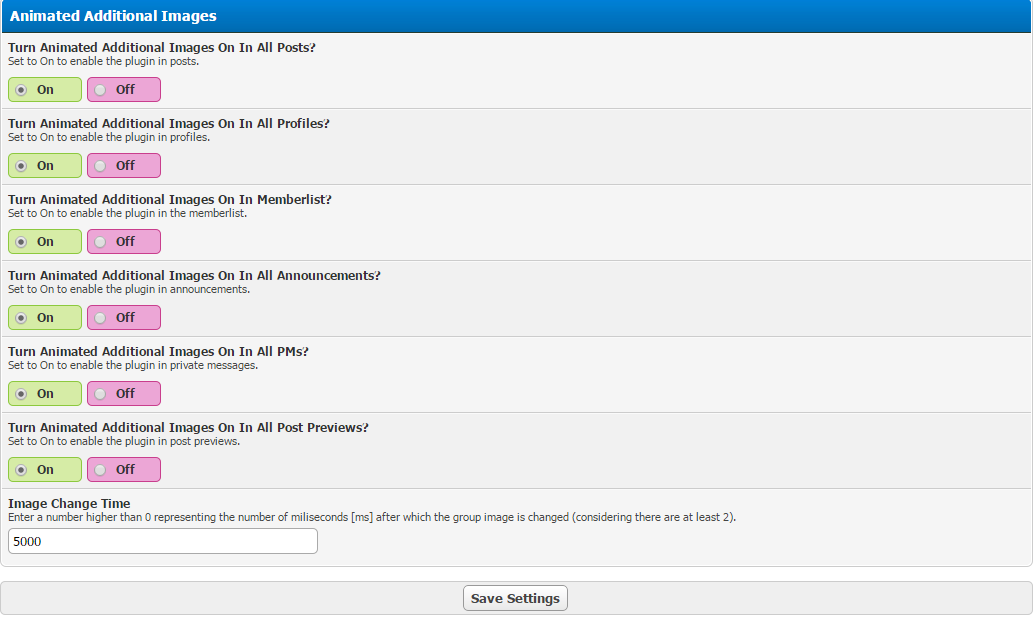
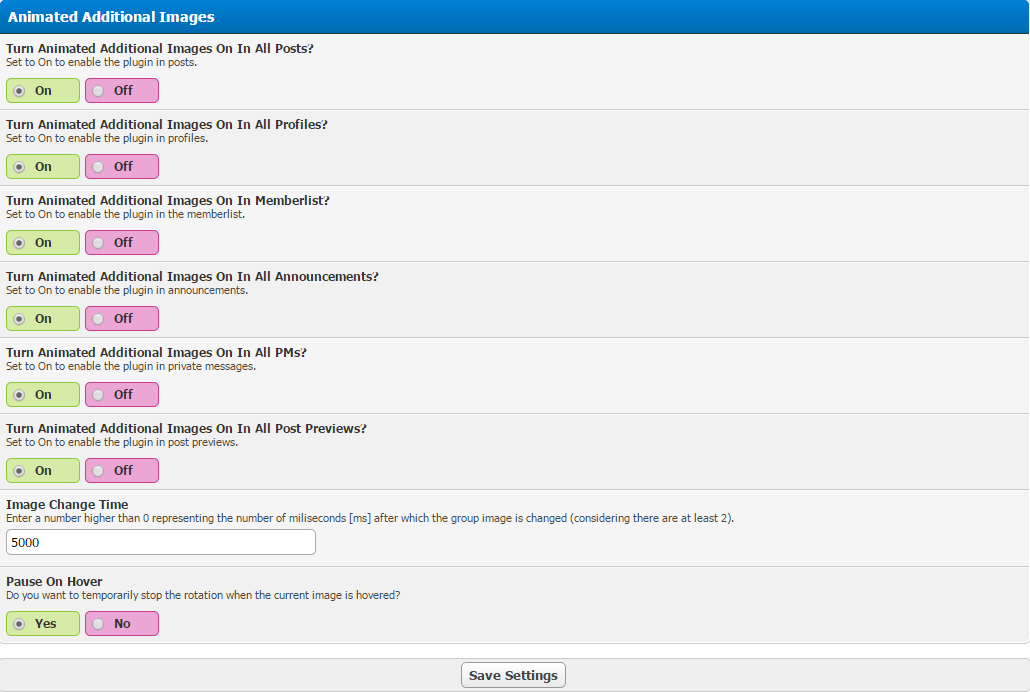
1.3
...

Changed region(s): [[0.0, 0.0, 1.0, 1.0]]

diff --git a/upload/inc/plugins/animated_additional_images.php b/upload/inc/plugins/animated_additional_images.php
@@ -3,11 +3,11 @@
 /*
 Name: Animated Additional Group Images
 Author: Destroy666
-Version: 1.2
+Version: 1.3
 Requirements: Plugin Library
 Info: Plugin for MyBB forum software, coded for versions 1.8.x (may also work in 1.6.x/1.4.x after some changes).
 It displays additional group images in postbit/memberlist/profile by using a "carousel" JS.
-3 new templates, 5 template edits, 7 new settings
+3 new templates, 5 template edits, 8 new settings
 Released under GNU GPL v3, 29 June 2007. Read the LICENSE.md file for more information.
 Support: official MyBB forum - http://community.mybb.com/mods.php?action=profile&uid=58253 (don't PM me, post on forums)
 Bug reports: my github - https://github.com/Destroy666x
@@ -59,7 +59,7 @@ function animated_additional_images_info()
 		'website'		=> 'https://github.com/Destroy666x',
 		'author'		=> 'Destroy666',
 		'authorsite'	=> 'https://github.com/Destroy666x',
-		'version'		=> 1.2,
+		'version'		=> 1.3,
 		'codename'		=> 'animated_additional_images',
 		'compatibility'	=> '18*'
     );
@@ -279,7 +279,7 @@ function animated_additional_images_global()
 		$yes = false;
 		$action = $mybb->get_input('action');
 		
-		if(THIS_SCRIPT == 'showthread.php' && $mybb->settings['animated_additional_images_posts'])
+		if(THIS_SCRIPT == 'showthread.php' || (THIS_SCRIPT == 'newreply.php' && $mybb->get_input('ajax', MyBB::INPUT_INT)) && $mybb->settings['animated_additional_images_posts'])
 		{
 			$plugins->add_hook('postbit', 'animated_additional_images_postbit1');
 			$yes = true;

diff --git a/upload/inc/languages/english/admin/animated_additional_images_acp.lang.php b/upload/inc/languages/english/admin/animated_additional_images_acp.lang.php
@@ -3,11 +3,11 @@
 /*
 Name: Animated Additional Group Images
 Author: Destroy666
-Version: 1.2
+Version: 1.3
 Requirements: Plugin Library
 Info: Plugin for MyBB forum software, coded for versions 1.8.x (may also work in 1.6.x/1.4.x after some changes).
 It displays additional group images in postbit/memberlist/profile by using a "carousel" JS.
-3 new templates, 5 template edits, 7 new settings
+3 new templates, 5 template edits, 8 new settings
 Released under GNU GPL v3, 29 June 2007. Read the LICENSE.md file for more information.
 Support: official MyBB forum - http://community.mybb.com/mods.php?action=profile&uid=58253 (don't PM me, post on forums)
 Bug reports: my github - https://github.com/Destroy666x

diff --git a/upload/inc/languages/polish/admin/animated_additional_images_acp.lang.php b/upload/inc/languages/polish/admin/animated_additional_images_acp.lang.php
@@ -3,11 +3,11 @@
 /*
 Nazwa: Animowane dodatkowe grupy
 Autor: Destroy666
-Wersja: 1.0
+Wersja: 1.3
 Wymagania: Plugin Library
 Informacje: Plugin dla skryptu MyBB, zakodowany dla wersji 1.8.x (może także działać w 1.6.x/1.4.x).
 Wyświetla obrazki dodatkowych grup w formie "karuzeli" JS.
-3 nowe szablony, 5 zmian w szablonach, 7 nowych ustawień
+3 nowe szablony, 5 zmian w szablonach, 8 nowych ustawień
 Licencja: GNU GPL v3, 29 June 2007. Więcej informacji w pliku LICENSE.md.
 Support: officjalne forum MyBB - http://community.mybb.com/mods.php?action=profile&uid=58253 (nie odpowiadam na PM, tylko na posty)
 Zgłaszanie błędów: mój github - https://github.com/Destroy666x

diff --git a/README.md b/README.md
@@ -5,14 +5,14 @@
 
 **Name**: Animated Additional Images  
 **Author**: Destroy666  
-**Version**: 1.2  
+**Version**: 1.3  
 
 **Info**:
 ---------
 
-Plugin for MyBB forum software, coded for versions 1.8.x (will probably also work in 1.6.x/1.4.x).  
+Plugin for MyBB forum software, coded for versions 1.8.x (may also work in 1.6.x/1.4.x after some changes).  
 It displays additional group images in postbit/memberlist/profile by using a "carousel" JS.  
-3 new templates, 5 template edits, 7 new settings  
+3 new templates, 5 template edits, 8 new settings  
 Released under GNU GPL v3, 29 June 2007. Read the LICENSE.md file for more information.  
 
 **Support/bug reports**: 
@@ -24,6 +24,7 @@ Released under GNU GPL v3, 29 June 2007. Read the LICENSE.md file for more infor
 **Changelog**:
 --------------
 
+**1.3** - fixed showing group images after quick reply, added a setting for pausing animation on mouse hover
 **1.2** - small corrections  
 **1.1** - fixed a small conflict with MyBB core code that cause quick reply to break (thanks to Ben Conway for report)  
 **1.0** - initial release  
